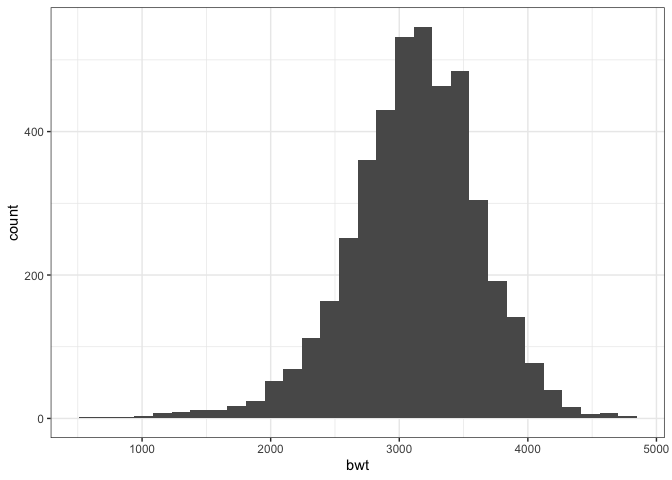
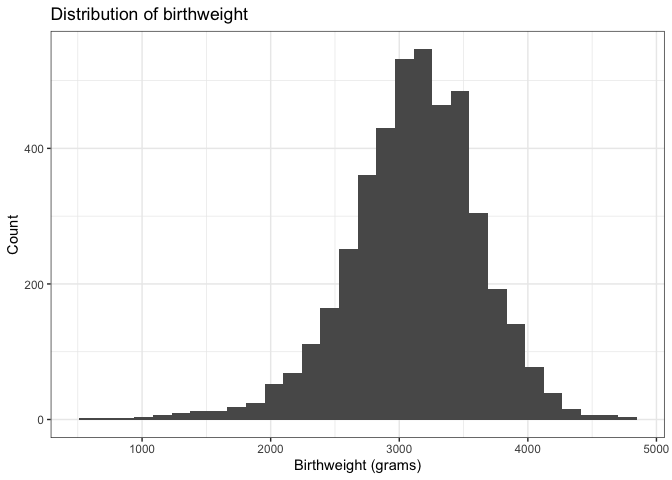
Commit after finishing assignment.

diff --git a/p8105_hw6_jl4443.md b/p8105_hw6_jl4443.md
@@ -48,7 +48,7 @@ skimr::skim(tidy_data)
     ##  n obs: 4342 
     ##  n variables: 22 
     ## 
-    ## ── Variable type:factor ───────────────────────────────────────────────────────────────────
+    ## ── Variable type:factor ──────────────────────────────────────────────────────────────────────────────────────────────────────────────────────────────
     ##     variable missing complete    n n_unique
     ##      babysex       0     4342 4342        2
     ##  father_race       0     4342 4342        5
@@ -58,7 +58,7 @@ skimr::skim(tidy_data)
     ##  Whi: 2123, Bla: 1911, Pue: 248, Asi: 46   FALSE
     ##  Whi: 2123, Bla: 1911, Pue: 248, Asi: 46   FALSE
     ## 
-    ## ── Variable type:numeric ──────────────────────────────────────────────────────────────────
+    ## ── Variable type:numeric ─────────────────────────────────────────────────────────────────────────────────────────────────────────────────────────────
     ##  variable missing complete    n      mean      sd     p0     p25     p50
     ##     bhead       0     4342 4342   33.65     1.62   21      33      34   
     ##   blength       0     4342 4342   49.75     2.72   20      48      50   
@@ -102,44 +102,290 @@ skimr::skim(tidy_data)
 
 Before fitting a linear model we will plot the distribution of
 birthweight to ensure that a linear model is appropriate. Based on the
-below histogram, the data are normally distributed and a linear model is
-appropriate for the outcome of birthweight.
+below histogram, the data are normally distributed with mean 3114 grams
+and a linear model is appropriate for the outcome of birthweight.
 
 ``` r
 # plot the raw birthweight data
 ggplot(data = tidy_data, aes(x = bwt)) +
-  geom_histogram()
+  geom_histogram() +
+  labs(x = "Birthweight (grams)",
+       y = "Count",
+       title = "Distribution of birthweight")
 ```
 
     ## `stat_bin()` using `bins = 30`. Pick better value with `binwidth`.
 
 ![](p8105_hw6_jl4443_files/figure-gfm/unnamed-chunk-3-1.png)<!-- -->
 
-The following linear modoel is based on pre-specification of the
-relevant covariates a priori.
-
-Variables that were selected were variables that are hypothesized to be
-related to birthweight. Binary or categorical covariates with small cell
-sizes were not included in the model since they would advsersely affect
-model fit. Examples of such variables that were considered but not
-included due to low cell counts or fewer than two levels were: `malform`
-(n=15), `pnumsga` (n=0).
+The following linear model is based on pre-specification of the relevant
+covariates a priori, meaning tht variables included were variables that
+are hypothesized to be related to birthweight rather than model
+selection via data driven approach. Binary or categorical covariates
+with small cell sizes were not included in the model since they would
+advsersely affect model fit. Examples of such variables that were
+considered but not included due to low cell counts or fewer than two
+levels were: `malform` (n=15), `pnumsga` (n=0).
 
 ``` r
 # propose a linear model for the data
-mdl_bwt <- lm(bwt ~ babysex + gaweeks + blength, data = tidy_data)
-# +  +  + momage
-#+  +  +  +  
-broom::tidy(mdl_bwt)
+mdl_bwt <- lm(bwt ~ babysex + gaweeks + blength + bhead + smoken, data = tidy_data)
+
+broom::tidy(mdl_bwt) %>% 
+  mutate(p_value = format.pval(p.value, digits = 2, eps = 0.001)) %>% 
+  select(-p.value) %>% 
+  kable()
 ```
 
-    ## # A tibble: 4 x 5
-    ##   term          estimate std.error statistic  p.value
-    ##   <chr>            <dbl>     <dbl>     <dbl>    <dbl>
-    ## 1 (Intercept)    -4324.      98.8     -43.8  0.      
-    ## 2 babysexFemale    -18.8     10.2      -1.84 6.57e- 2
-    ## 3 gaweeks           27.2      1.72     15.8  6.25e-55
-    ## 4 blength          128.       2.00     63.9  0.
+<table>
+
+<thead>
+
+<tr>
+
+<th style="text-align:left;">
+
+term
+
+</th>
+
+<th style="text-align:right;">
+
+estimate
+
+</th>
+
+<th style="text-align:right;">
+
+std.error
+
+</th>
+
+<th style="text-align:right;">
+
+statistic
+
+</th>
+
+<th style="text-align:left;">
+
+p\_value
+
+</th>
+
+</tr>
+
+</thead>
+
+<tbody>
+
+<tr>
+
+<td style="text-align:left;">
+
+(Intercept)
+
+</td>
+
+<td style="text-align:right;">
+
+\-6239.757901
+
+</td>
+
+<td style="text-align:right;">
+
+98.1459977
+
+</td>
+
+<td style="text-align:right;">
+
+\-63.576285
+
+</td>
+
+<td style="text-align:left;">
+
+\<0.001
+
+</td>
+
+</tr>
+
+<tr>
+
+<td style="text-align:left;">
+
+babysexFemale
+
+</td>
+
+<td style="text-align:right;">
+
+32.245881
+
+</td>
+
+<td style="text-align:right;">
+
+8.8399223
+
+</td>
+
+<td style="text-align:right;">
+
+3.647756
+
+</td>
+
+<td style="text-align:left;">
+
+\<0.001
+
+</td>
+
+</tr>
+
+<tr>
+
+<td style="text-align:left;">
+
+gaweeks
+
+</td>
+
+<td style="text-align:right;">
+
+14.399842
+
+</td>
+
+<td style="text-align:right;">
+
+1.5156942
+
+</td>
+
+<td style="text-align:right;">
+
+9.500493
+
+</td>
+
+<td style="text-align:left;">
+
+\<0.001
+
+</td>
+
+</tr>
+
+<tr>
+
+<td style="text-align:left;">
+
+blength
+
+</td>
+
+<td style="text-align:right;">
+
+81.426457
+
+</td>
+
+<td style="text-align:right;">
+
+2.0819313
+
+</td>
+
+<td style="text-align:right;">
+
+39.111021
+
+</td>
+
+<td style="text-align:left;">
+
+\<0.001
+
+</td>
+
+</tr>
+
+<tr>
+
+<td style="text-align:left;">
+
+bhead
+
+</td>
+
+<td style="text-align:right;">
+
+140.473722
+
+</td>
+
+<td style="text-align:right;">
+
+3.5646540
+
+</td>
+
+<td style="text-align:right;">
+
+39.407394
+
+</td>
+
+<td style="text-align:left;">
+
+\<0.001
+
+</td>
+
+</tr>
+
+<tr>
+
+<td style="text-align:left;">
+
+smoken
+
+</td>
+
+<td style="text-align:right;">
+
+\-1.767918
+
+</td>
+
+<td style="text-align:right;">
+
+0.5881574
+
+</td>
+
+<td style="text-align:right;">
+
+\-3.005859
+
+</td>
+
+<td style="text-align:left;">
+
+0.0027
+
+</td>
+
+</tr>
+
+</tbody>
+
+</table>
 
 ## Residuals vs predicted values
 
@@ -153,17 +399,17 @@ tidy_data %>%
   geom_hline(yintercept = 0) + 
   # geom_smooth(method = "loess", se = TRUE) + 
   labs(title = "Residuals vs predicted values for linear model of birthweight",
-       caption = "Model adjusted for: baby's sex, mother's delivery weight, gestational age (weeks), pre-pregnancy BMI, and weight gain.",
+       caption = "Model adjusted for: baby's sex, gestational age, baby's length (cm), baby's head circumference, and number of cigarettes per day during pregnancy.",
        x = "Predicted values",
        y = "Residuals")
 ```
 
 ![](p8105_hw6_jl4443_files/figure-gfm/unnamed-chunk-6-1.png)<!-- -->
 
-There is one patient whose predicted value is less than 0, but this
-patient is a clear outlier in the data. For the majority of the data
-except for the tails, the residuals are dispersed evenly on average
-across predicted values.
+There is are three babies whose predicted birthweight is less than 0,
+but they are clear outliers in the data. For the majority of the data,
+the residuals are generally evenly dispersed across the predicted
+values.
 
 ## Model comparisons
 
@@ -175,7 +421,7 @@ cv <- crossv_mc(tidy_data, 100) %>%
   mutate(train = map(train, as_tibble),
     test = map(test, as_tibble)) %>% 
   # run each of the models
-  mutate(primary_model  = map(train, ~lm(bwt ~ babysex + gaweeks, data = .x)),
+  mutate(primary_model  = map(train, ~lm(bwt ~ babysex + gaweeks + blength + bhead + smoken, data = .x)),
          alt_model1  = map(train, ~lm(bwt ~ blength + gaweeks, data = .x)),
          alt_model2  = map(train, ~lm(bwt ~ bhead + blength + babysex + bhead*blength + bhead*babysex + blength*babysex + bhead*blength*babysex, data = .x))) %>% 
   # pull out root mses
@@ -203,6 +449,15 @@ cv %>%
 ```
 
 ![](p8105_hw6_jl4443_files/figure-gfm/unnamed-chunk-7-1.png)<!-- -->
+
+The first alternative model (adjusted only for length at birth and
+gestational age) had the highest RMSE, indicating poorest predictive
+value. THe primary model (adjusted for baby’s sex, gestational age,
+baby’s length (cm), baby’s head circumference, and number of
+cigarettes per day during pregnancy) and the second alternative model
+(adjusted for head circumference, length, sex, and all interactions)
+were comparable in terms of their RMSE, with the primary model having
+slightly lower RMSE than the second alternative model.
 
 # Problem 2
 
@@ -238,7 +493,7 @@ weather_df <- rnoaa::meteo_pull_monitors(
 ``` r
 # 1. select bootstrap samples
 bootstrap_samples <- weather_df %>% 
-  modelr::bootstrap(n = 1000)
+  modelr::bootstrap(n = 5000)
 
 # 2. on each bootstrapped sample, run a linear model and extract relevant information 
 bootstrap_models <- bootstrap_samples %>% 
@@ -301,4 +556,4 @@ R-squared is approximately normally distributed with mean 0.91. The 95%
 CI for the r-squared value is (0.89, 0.93).
 
 Log(beta0*beta1) is also normally distributed with mean 2.01. The 95% CI
-for log(b0 * b1) is (1.96, 2.06).
+for log(b0 * b1) is (1.97, 2.06).
